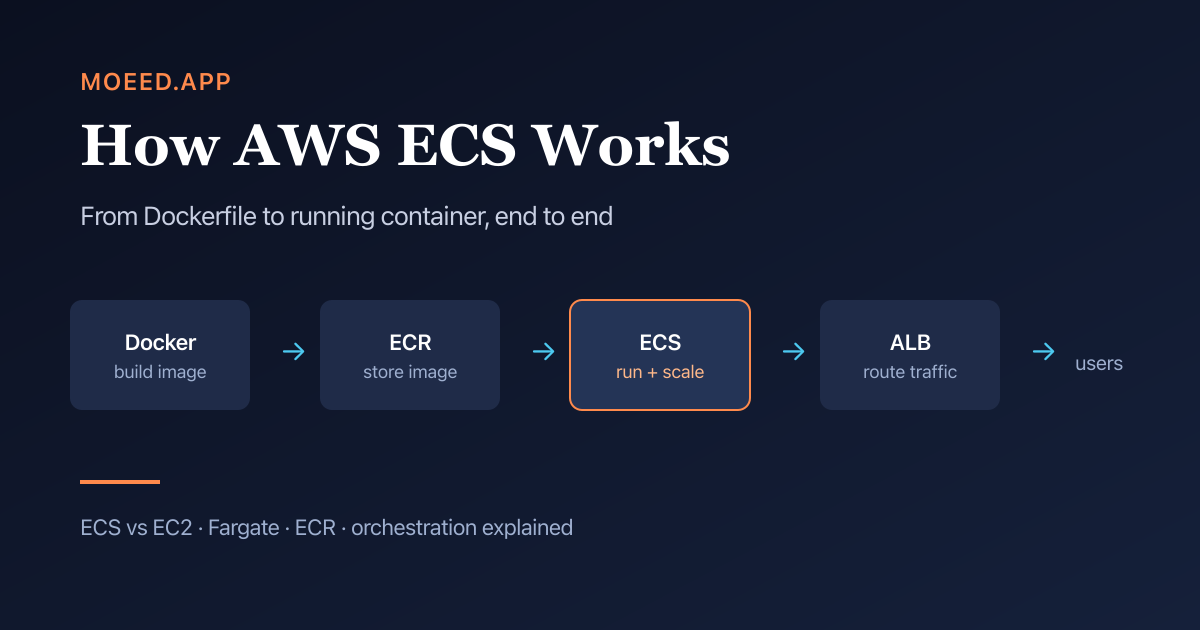
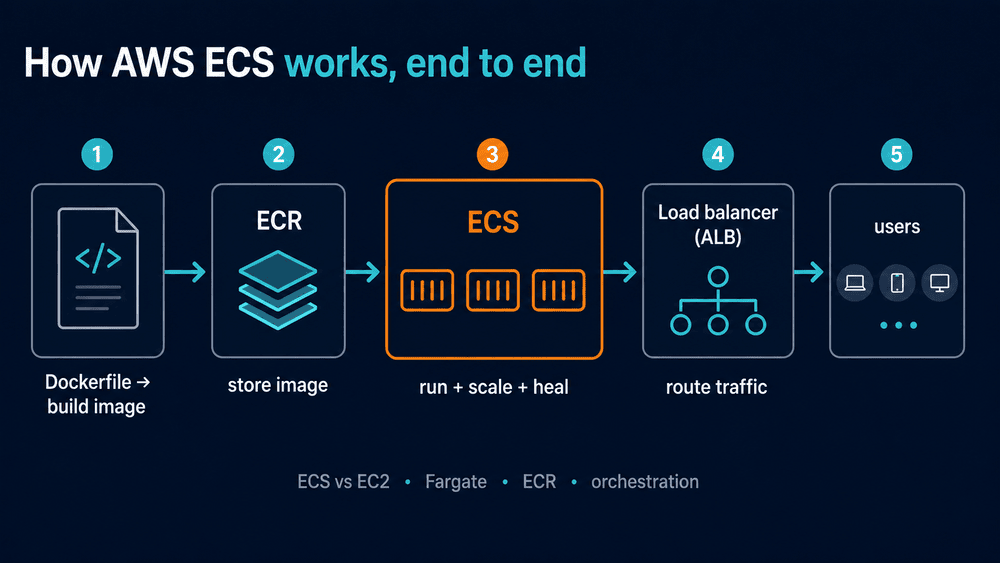
Add three diagrams to the ECS guide
- Hero replaced with the polished end-to-end flow diagram, embedded
  inline after the TL;DR
- 'ECS and EC2 are different layers' diagram added to the ECS-vs-EC2
  section, the concept beginners get wrong most often
- 'How the ECS pieces fit' nesting diagram added to the core-concepts
  section so the task definition / task / service / cluster
  relationship is visual, not just described
- All three have keyword-rich alt text for image search and a11y

diff --git a/src/content/posts/what-is-aws-ecs.md b/src/content/posts/what-is-aws-ecs.md
@@ -18,6 +18,8 @@ This guide assumes you know none of them. We will build the picture from the gro
 
 > Amazon ECS is a managed container orchestration service. You hand it a container image, describe how you want it to run, and ECS places it on compute, keeps it healthy, scales it, and wires it to networking. It runs containers either on EC2 servers you own or on Fargate, where AWS owns the servers and you never see them.
 
+![How AWS ECS works end to end: a Dockerfile builds the image, ECR stores it, ECS runs and scales and heals it, an ALB routes traffic to users](/posts/what-is-aws-ecs-hero.png)
+
 ## First, what a container actually is
 
 Skip this section if you already work with Docker. If you do not, this is the foundation everything else sits on.
@@ -80,6 +82,8 @@ EC2 and ECS are not competitors. They are not two ways to do the same thing. The
 
 So the relationship is not "ECS or EC2." It is often "ECS running containers on top of EC2." ECS is the head chef. EC2 is the kitchen the chef works in. You can also choose a kitchen you never see or maintain, which is **Fargate**: AWS's serverless way to run containers, where there is no server for you to create, log into, or patch. We cover Fargate properly in its own section below, but keep that one-line meaning in mind, because it shows up in the diagram at the top of this article and you should not have to wait to know what it means.
 
+![ECS and EC2 are different layers: ECS is the orchestration layer with tasks, services, and the scheduler, sitting on top of a compute layer that is either EC2 instances you manage or serverless Fargate, which in turn sits on AWS infrastructure](/posts/what-is-aws-ecs-layers.png)
+
 Here is the comparison most beginners actually need:
 
 | | EC2 (on its own) | ECS |
@@ -130,6 +134,8 @@ A cluster is the logical box that holds the above. Our service and its tasks wou
 ### One more, for the EC2 launch type
 
 If you run on the EC2 launch type, there is a fifth piece: the **container agent**, a small program on each EC2 machine that lets ECS talk to it. With Fargate you never see the agent because you never see the machine. If "Fargate" still feels vague, the next section defines it properly.
+
+![How the ECS pieces fit: a task definition is the blueprint that becomes a running task; a service keeps N tasks running, each task holding a container; all of it lives inside a cluster](/posts/what-is-aws-ecs-concepts.png)
 
 ## Where ECS actually runs your containers
 
